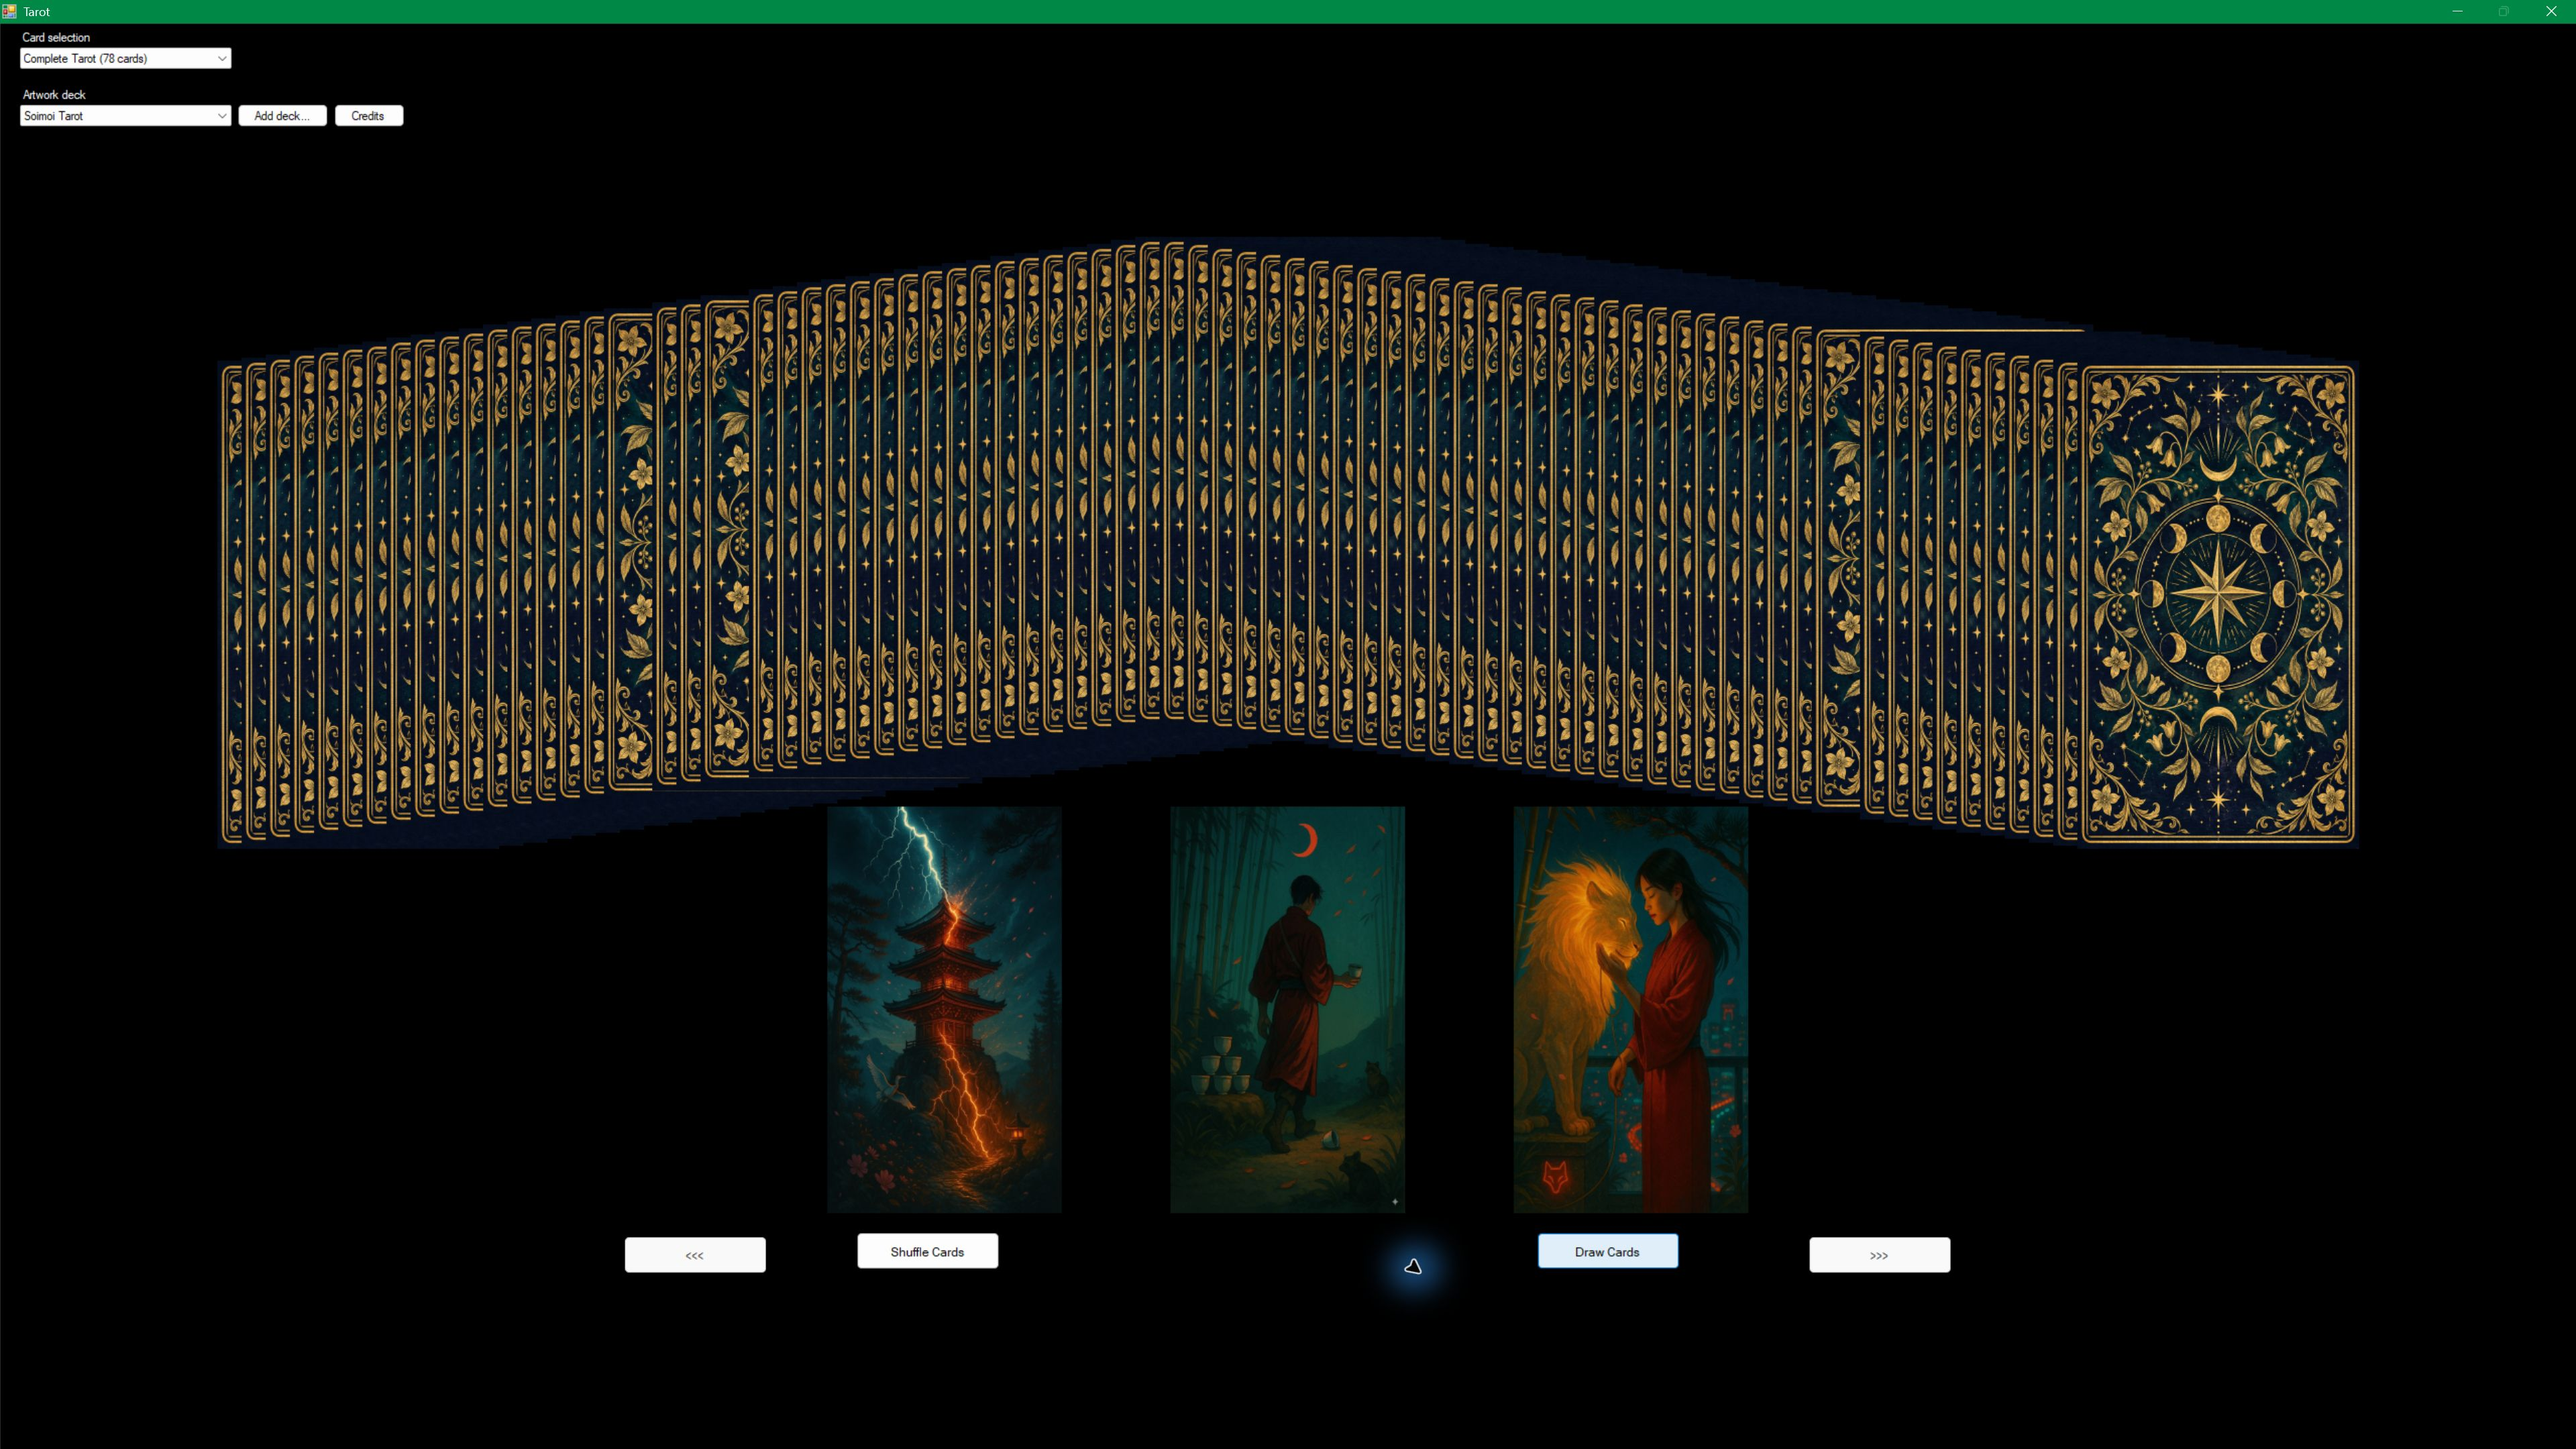
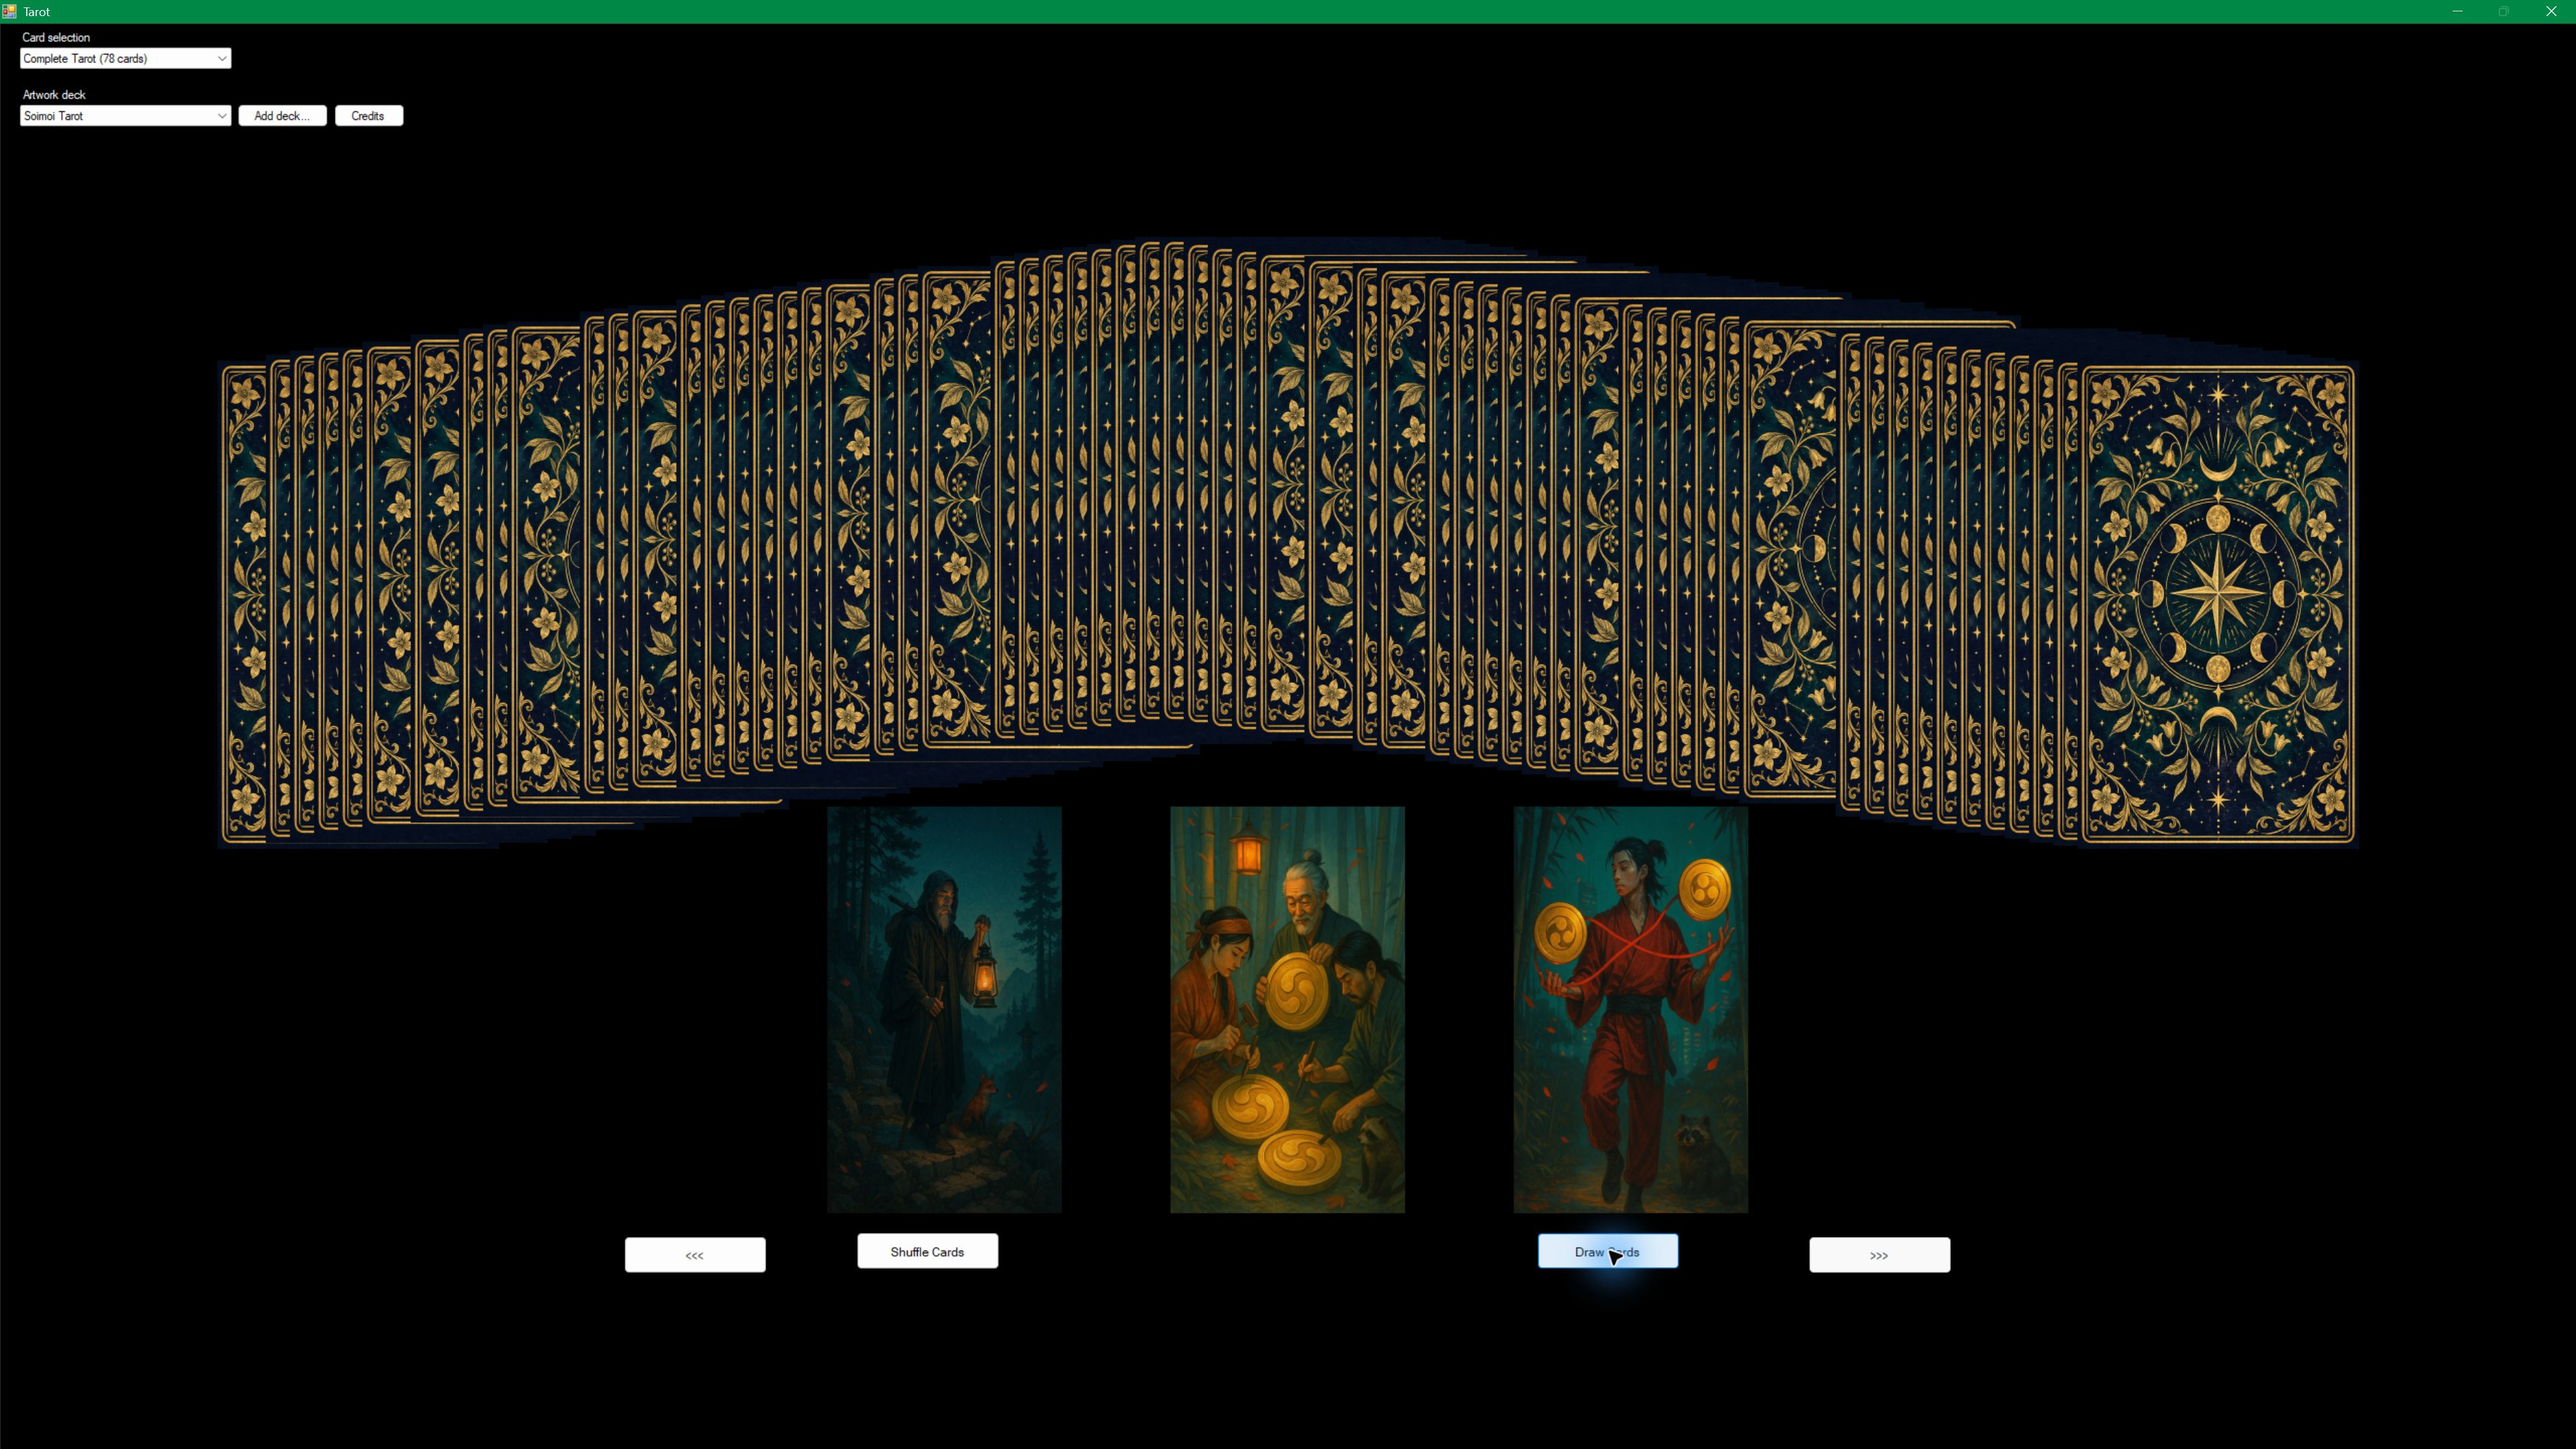
Center the fan while spreading from left to right

diff --git a/TarotDeck/frmTarot.cs b/TarotDeck/frmTarot.cs
@@ -502,9 +502,9 @@ namespace TarotCardsDeck
             int cardWidth = Math.Max(1, (int)(175 * dblScrWidRat));
             int cardHeight = Math.Max(1, (int)(300 * dblScrHgtRat));
             double defaultSpacing = 15 * dblScrWidRat;
-            double availableWidth = Math.Max(0, ClientSize.Width - cardWidth);
-            double spacing = count > 1 ? Math.Min(defaultSpacing, availableWidth / (count - 1)) : 0;
-            double spreadWidth = cardWidth + spacing * (count - 1);
+            double minimumSpreadWidth = cardWidth + defaultSpacing * Math.Max(0, count - 1);
+            double spreadWidth = Math.Max(cardWidth, Math.Min(Math.Max(minimumSpreadWidth, ClientSize.Width * 0.76), ClientSize.Width * 0.9));
+            double spacing = count > 1 ? (spreadWidth - cardWidth) / (count - 1) : 0;
             double startX = Math.Max(0, (ClientSize.Width - spreadWidth) / 2);
             double center = (count - 1) / 2.0;
 
